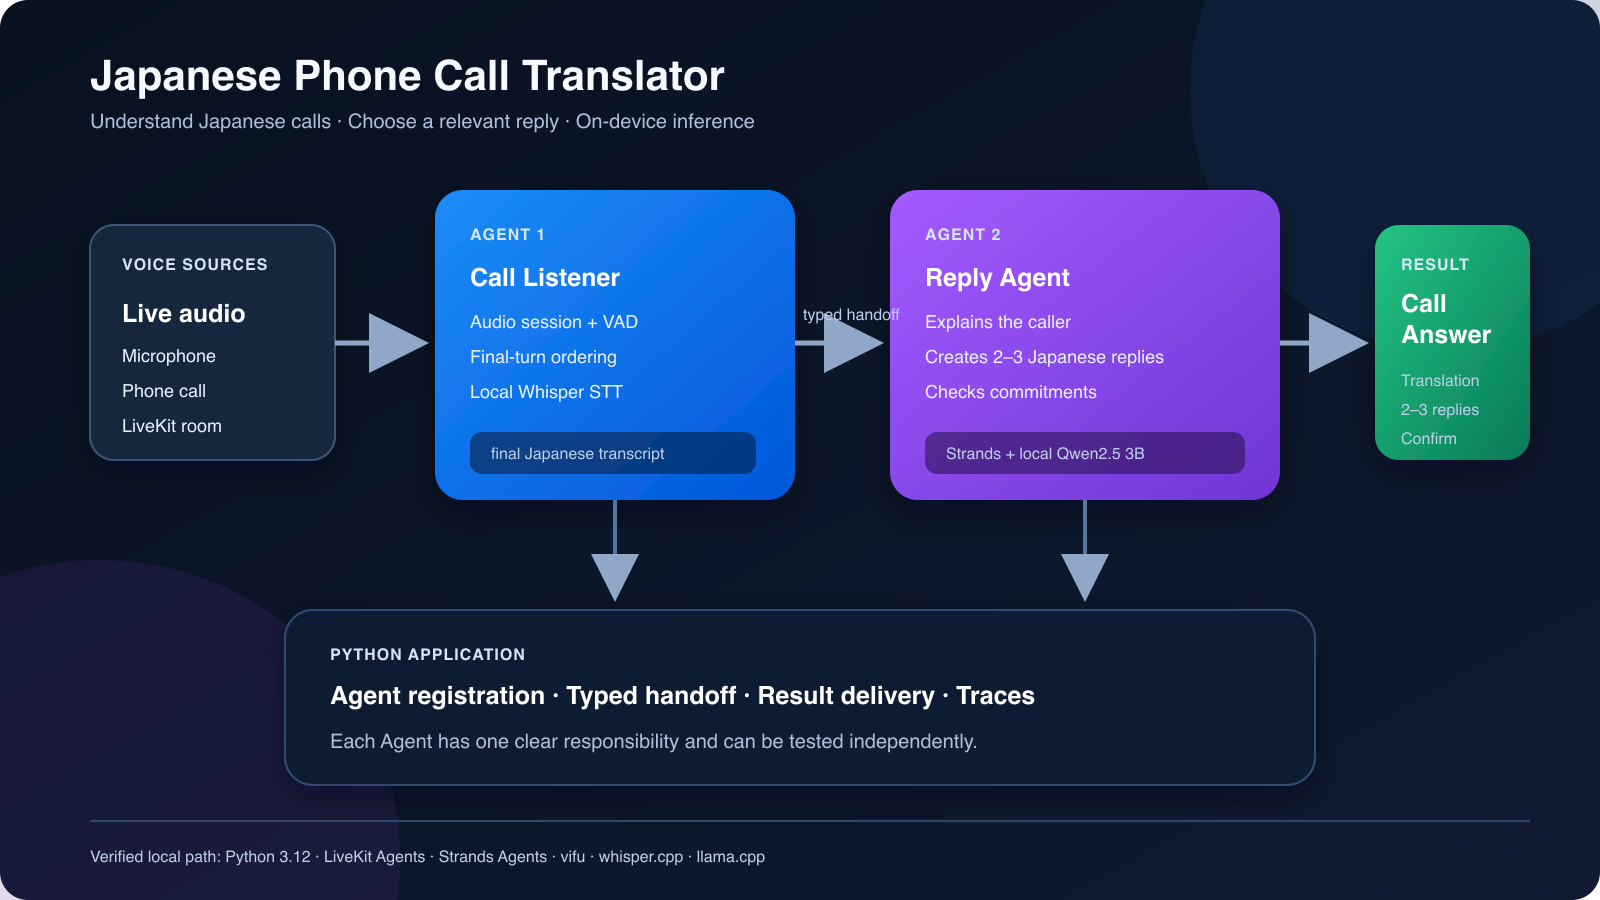
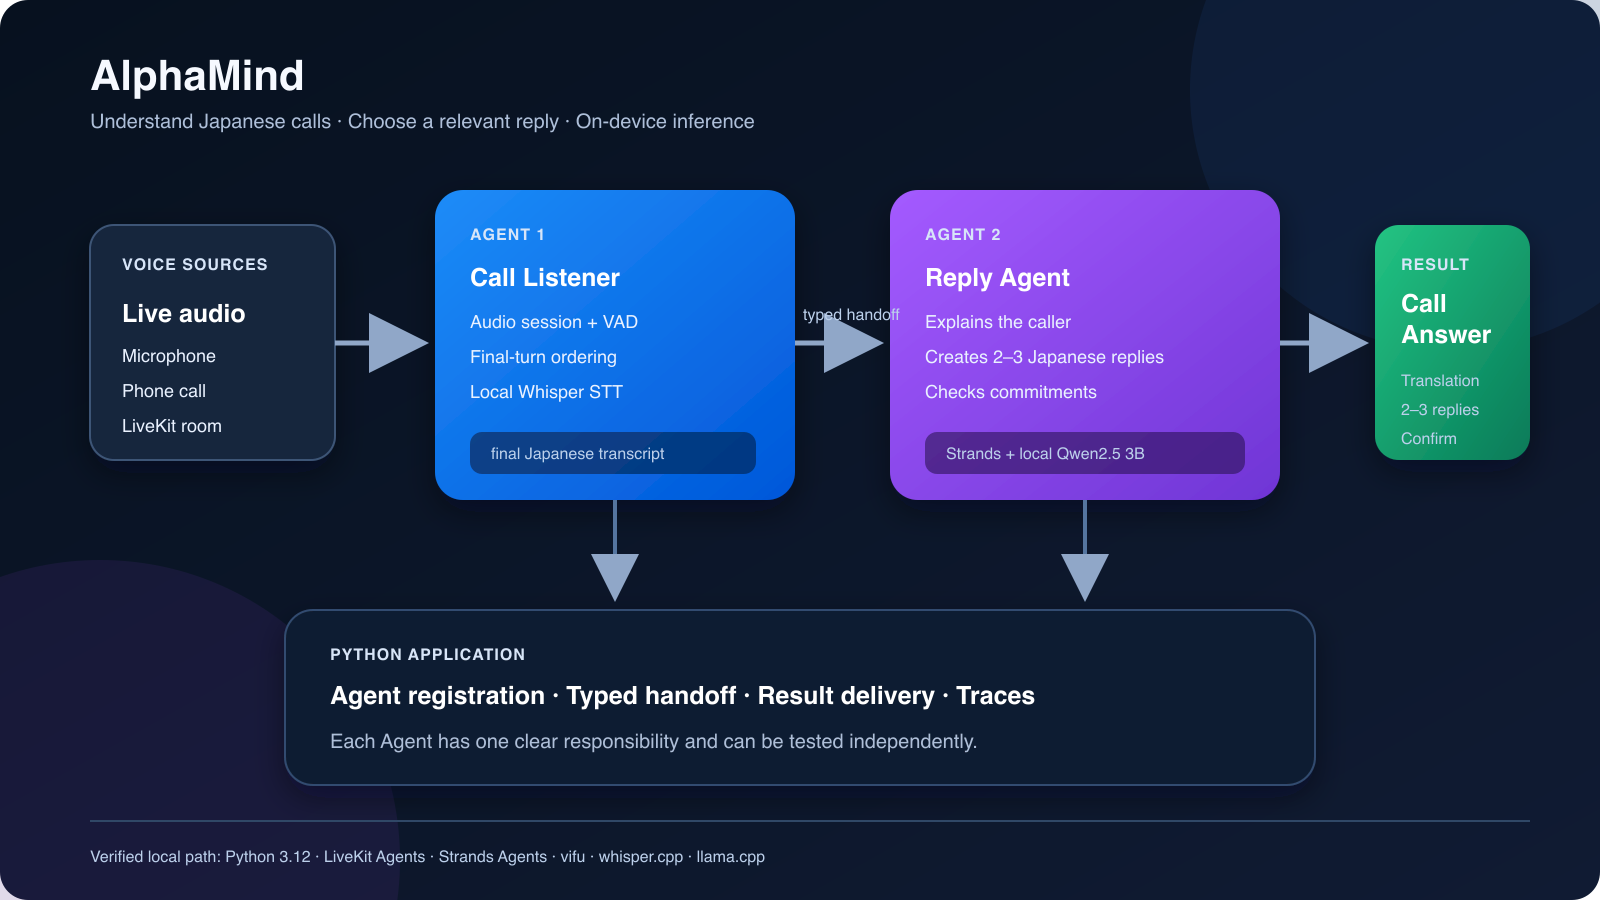
Rename project to AlphaMind

Changed region(s): [[0.0625, 0.0622, 0.4688, 0.1244]]

diff --git a/voice_agent.py b/voice_agent.py
@@ -1,4 +1,4 @@
-"""Local LiveKit call listener for Japanese Phone Call Translator."""
+"""Local LiveKit call listener for AlphaMind."""
 
 from __future__ import annotations
 
@@ -39,7 +39,7 @@ from livekit.agents.types import (
 from livekit.agents.voice import UserInputTranscribedEvent, room_io
 from livekit.plugins import silero
 
-logger = logging.getLogger("japanese-phone-call-translator-voice")
+logger = logging.getLogger("alphamind-voice")
 
 DUPLICATE_TRANSCRIPT_WINDOW_SECONDS = 3.0
 _NATIVE_STDERR_LOCK = Lock()

diff --git a/japanese_reply_agent.py b/japanese_reply_agent.py
@@ -13,7 +13,7 @@ from reasoning_config import ReasoningConfig
 from result_sink import CallAssistResultSink
 from vifu import AgentRequest
 
-logger = logging.getLogger("japanese-phone-call-translator-reasoning")
+logger = logging.getLogger("alphamind-reasoning")
 
 MAX_REASONING_ATTEMPTS = 3
 MAX_REASONING_TOKENS = 500

diff --git a/main.py b/main.py
@@ -47,7 +47,7 @@ def print_transcript_status(event: dict[str, Any]) -> None:
 
 
 app = Vifu(
-    "Japanese Phone Call Translator",
+    "AlphaMind",
     workspace=Path(__file__).resolve().parent,
     capture_trace_content=True,
 )

diff --git a/README.md b/README.md
@@ -1,15 +1,14 @@
-# Japanese Phone Call Translator
+# AlphaMind
 
-Japanese Phone Call Translator helps foreign residents in Japan understand and
-answer phone calls in Japanese. It listens to the caller and shows the meaning
-in Simplified Chinese. It then provides two or three relevant Japanese reply
-options. It flags dates, prices, appointments, and other commitments before the
-user answers.
+AlphaMind gives foreign residents real-time intelligence for Japanese phone
+calls. It listens to the caller and explains the meaning in Simplified Chinese.
+It then provides two or three relevant Japanese reply options. It flags dates,
+prices, appointments, and other commitments before the user answers.
 
 The project is one Python application with two independent Agents. It targets
 the Everyday Agents track of the Agents for Humans Hackathon.
 
-![Japanese Phone Call Translator architecture](docs/architecture.png)
+![AlphaMind architecture](docs/architecture.png)
 
 ## The two-Agent design
 
@@ -21,7 +20,7 @@ from japanese_reply_agent import JapaneseReplyAgent
 from reasoning_config import ReasoningConfig
 from voice_agent import JapaneseCallListenerAgent
 
-app = Vifu("Japanese Phone Call Translator")
+app = Vifu("AlphaMind")
 gpu_layers = (
     36
     if sys.platform == "darwin"
@@ -159,10 +158,9 @@ Builder ID.
 
 ## Project provenance
 
-Japanese Phone Call Translator was created during the hackathon submission
-period. It uses the public Strands Agents, LiveKit Agents, Pydantic, and `vifu`
-Python packages. The `vifu` package supplies local model adapters and Agent
-routing. The model files are separate downloads and are not part of this
-repository.
+AlphaMind was created during the hackathon submission period. It uses the
+public Strands Agents, LiveKit Agents, Pydantic, and `vifu` Python packages.
+The `vifu` package supplies local model adapters and Agent routing. The model
+files are separate downloads and are not part of this repository.
 
 The project is licensed under Apache License 2.0. See [LICENSE](LICENSE).

diff --git a/docs/demo-script.md b/docs/demo-script.md
@@ -11,8 +11,8 @@ Narration:
 
 > Foreign residents in Japan often receive calls about deliveries,
 > appointments, housing, utilities, or schools. When they cannot understand the
-> caller, they also cannot decide how to answer. Japanese Phone Call Translator
-> explains the latest message and provides relevant Japanese reply options.
+> caller, they also cannot decide how to answer. AlphaMind explains the latest
+> message and provides relevant Japanese reply options.
 
 ## 0:25–0:55 — One App, two Agents
 
@@ -76,4 +76,4 @@ Narration:
 - Show the working product, not only code or slides.
 - Include the problem, audience, and why it matters.
 - Keep secrets, local paths, notifications, and unrelated windows off-screen.
-- Add English subtitles when any narration or UI explanation is not English.
+- If any narration or UI explanation is not English, add English subtitles.
